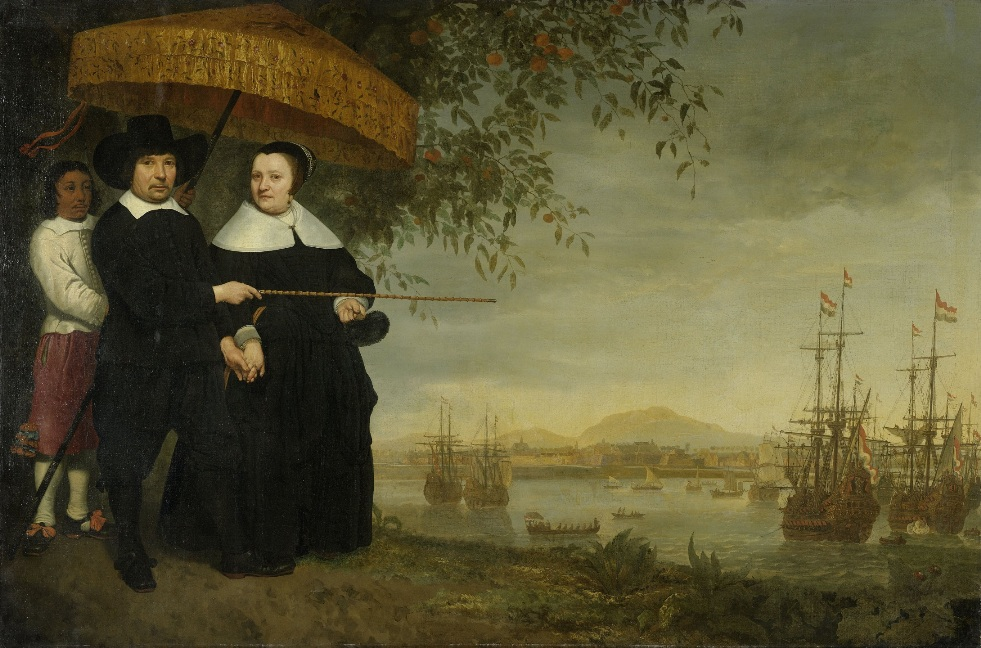
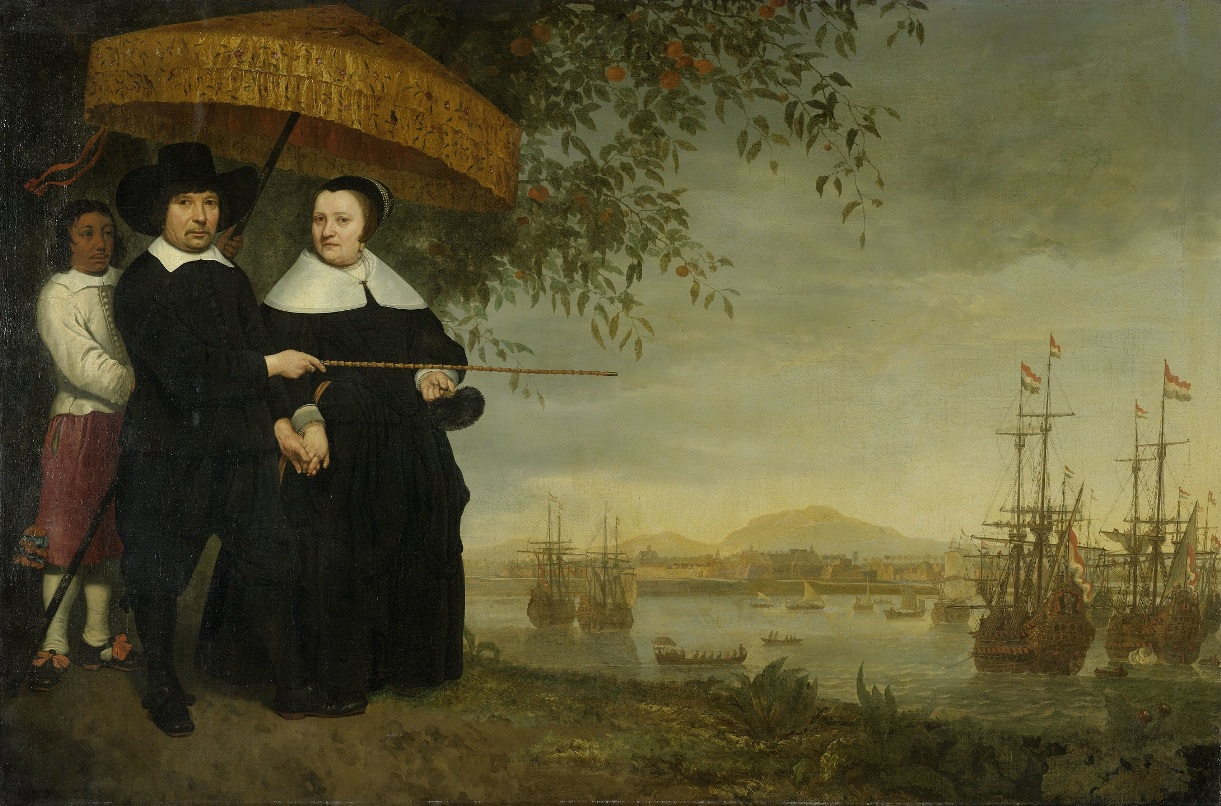
right sizes paintings

diff --git a/views/painting2.html b/views/painting2.html
@@ -12,7 +12,7 @@
 </head>
 
 <body onload="init()">
-    <canvas id="mycanvas" width="971" height="665" style="background-image: url('img/schilderij2.jpg')" >
+    <canvas id="mycanvas" width="1165" height="798" style="background-image: url('img/schilderij2.jpg')" >
       Canvas element not supported.
     </canvas>
 	</img>

diff --git a/views/painting3.html b/views/painting3.html
@@ -12,7 +12,7 @@
 </head>
 
 <body onload="init()">
-    <canvas id="mycanvas" width="986" height="653" style="background-image: url('img/schilderij3.jpg')" >
+    <canvas id="mycanvas" width="1231" height="816" style="background-image: url('img/schilderij3.jpg')" >
       Canvas element not supported.
     </canvas>
 	</img>

diff --git a/views/painting4.html b/views/painting4.html
@@ -12,7 +12,7 @@
 </head>
 
 <body onload="init()">
-    <canvas id="mycanvas" width="981" height="648" style="background-image: url('img/schilderij4.jpg')" >
+    <canvas id="mycanvas" width="1221" height="806" style="background-image: url('img/schilderij4.jpg')" >
       Canvas element not supported.
     </canvas>
 	</img>

diff --git a/views/painting5.html b/views/painting5.html
@@ -12,7 +12,7 @@
 </head>
 
 <body onload="init()">
-    <canvas id="mycanvas" width="974" height="661" style="background-image: url('img/schilderij5.jpg')" >
+    <canvas id="mycanvas" width="1152" height="804" style="background-image: url('img/schilderij5.jpg')" >
       Canvas element not supported.
     </canvas>
 	</img>

diff --git a/views/painting6.html b/views/painting6.html
@@ -12,7 +12,7 @@
 </head>
 
 <body onload="init()">
-    <canvas id="mycanvas" width="872" height="918" style="background-image: url('img/schilderij6.jpg')" >
+    <canvas id="mycanvas" width="872" height="776" style="background-image: url('img/schilderij6.jpg')" >
       Canvas element not supported.
     </canvas>
 	</img>
